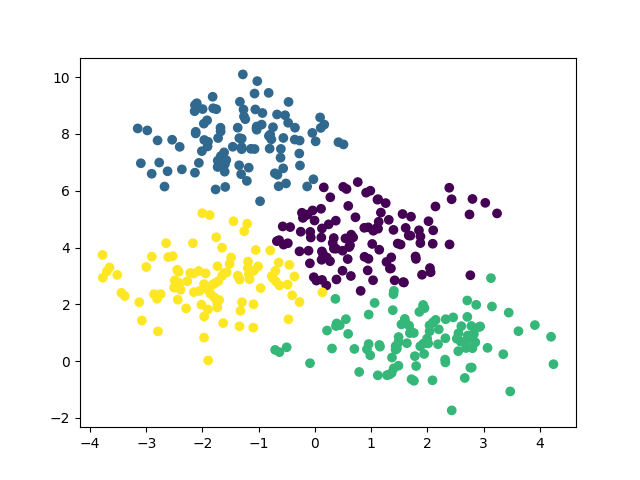
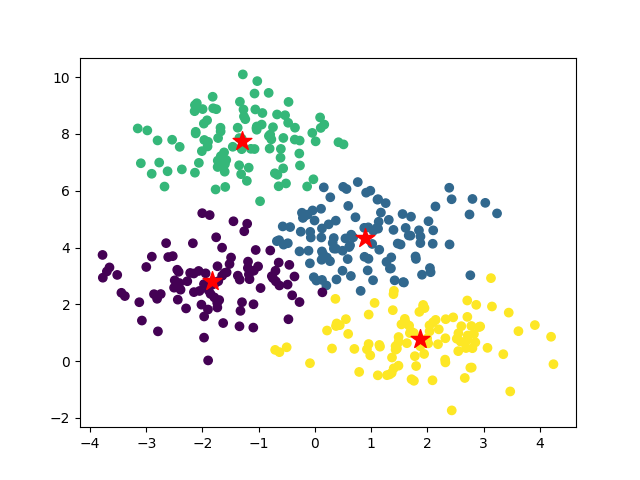
implement kmean and find optimal n clusters

diff --git a/run_kmc.py b/run_kmc.py
@@ -1,8 +1,9 @@
 import pandas
 import matplotlib.pyplot as pyplot
 
-
 from sklearn.cluster import KMeans
+
+from sklearn.metrics import silhouette_score
 
 dataset = pandas.read_csv("dataset.csv")
 
@@ -18,14 +19,47 @@ pyplot.scatter(dataset[:,0], dataset[:,1])
 pyplot.savefig("scatterplot.png")
 pyplot.close()
 
+def run_kmeans(n, dataset):
+  machine = KMeans(n_clusters=n)
+  machine.fit(dataset)
+  results = machine.predict(dataset)
+  centroids = machine.cluster_centers_
+  ssd = machine.inertia_
+  if n > 1:
+    silhouette = silhouette_score(dataset, machine.labels_, metric="euclidean")
+  else:
+    silhouette = 0
+  pyplot.scatter(dataset[:,0], dataset[:,1], c=results)
+  pyplot.scatter(centroids[:,0], centroids[:,1], c='red', marker="*", s = 200)
+  pyplot.savefig("scatterplot_kmean_" + str(n) + ".png")
+  pyplot.close()
+  return ssd, silhouette
 
 
+result = [run_kmeans(i+1, dataset) for i in range(7)]
+# print(result)
 
-
-kmeans_machine = KMeans(n_clusters=4)
-kmeans_machine.fit(dataset)
-results = kmeans_machine.predict(dataset)
-pyplot.scatter(dataset[:,0], dataset[:,1], c=results)
-pyplot.savefig("scatterplot_kmean_4.png")
+ssd_result = [ i[0] for i in result]
+pyplot.plot(range(1,8), ssd_result)
+pyplot.savefig("kmeans_ssd.png")
 pyplot.close()
+
+
+silhouette_result = [ i[1] for i in result][1:]
+pyplot.plot(range(2,8), silhouette_result)
+pyplot.savefig("kmeans_silhouette.png")
+pyplot.close()
+
+print(silhouette_result)
+print(silhouette_result.index(max(silhouette_result))+2)
+
+
+
+
+
+
+
+
+
+
 
